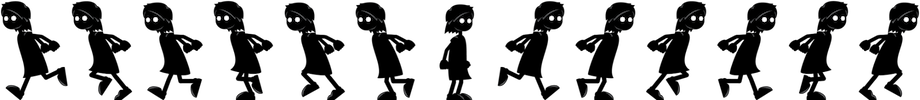
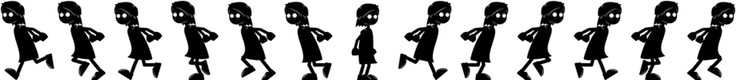
adjusted player sprite size

diff --git a/src/states/Preloader.js b/src/states/Preloader.js
@@ -39,7 +39,7 @@ Game.Preloader.prototype = {
         this.load.image('grass', 'assets/Grass_Platform.png');
         this.load.image('life', 'assets/diamond.png');
         this.load.image('battery', 'assets/battery.png');
-        this.load.spritesheet('dude3', 'assets/dude4_small.png', 71, 100); //width div frames, height 
+        this.load.spritesheet('dude3', 'assets/dude4_small.png', 57, 80); //width div frames, height 
         this.load.tilemap('map1', 'assets/level1.json', null, Phaser.Tilemap.TILED_JSON);
         this.load.tilemap('map2', 'assets/level2.json', null, Phaser.Tilemap.TILED_JSON);
         this.load.tilemap('map3', 'assets/level3.json', null, Phaser.Tilemap.TILED_JSON);

diff --git a/src/states/Level1.js b/src/states/Level1.js
@@ -196,7 +196,7 @@ Game.Level1.prototype = {
             // game.debug.body(enemy);
             // game.debug.bodyInfo(enemy, 32, y=y+128);
         });
-        // game.debug.body(this.player);
+        game.debug.body(this.player);
         // game.debug.bodyInfo(this.player, 32, 256);
     }
 };
